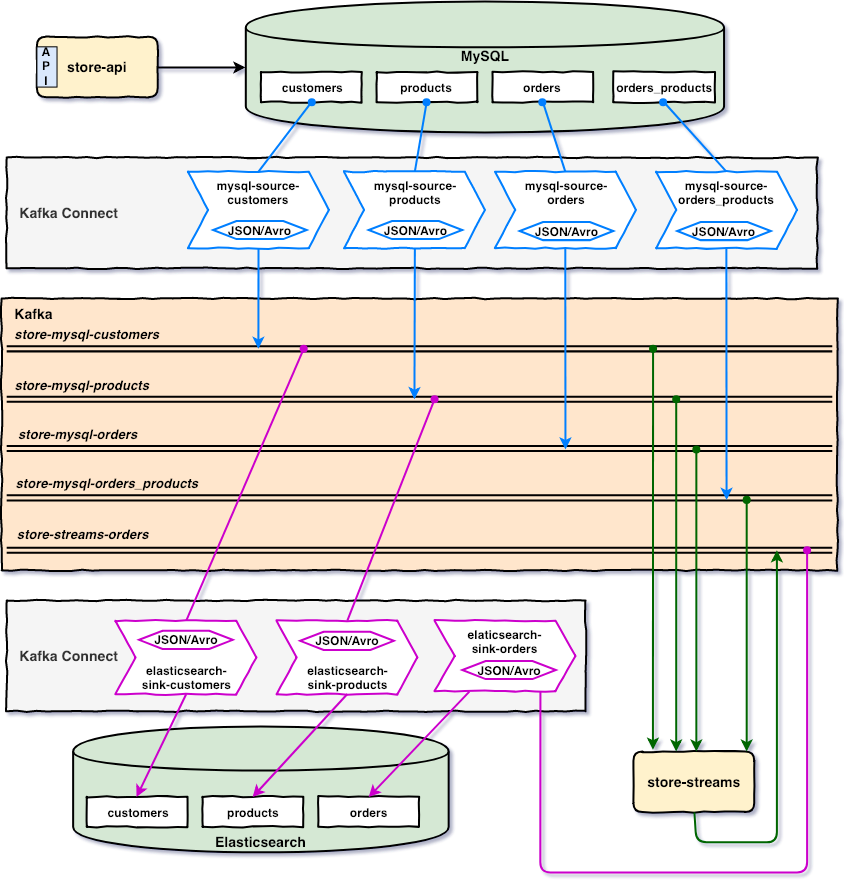
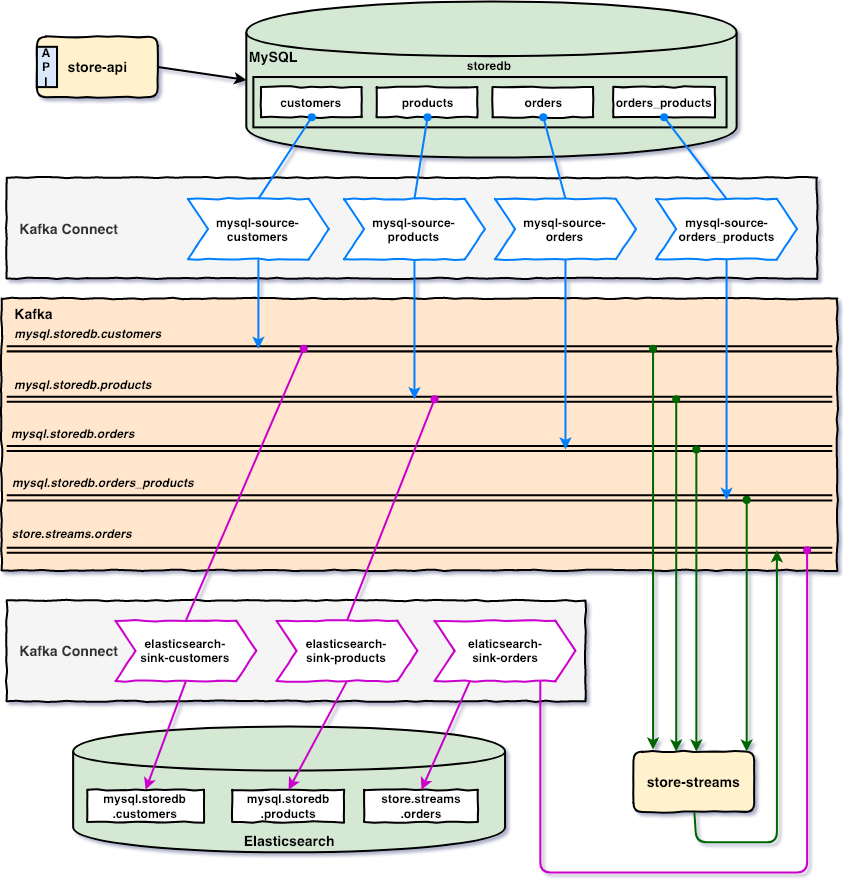
rename some kafka topics and update README

Changed region(s): [[0.0, 0.0, 1.0, 1.0], [0.0308, 0.0305, 0.1542, 0.1219]]

diff --git a/README.md b/README.md
@@ -42,7 +42,7 @@ you want to use `Avro`.
 2. Inside `/springboot-kafka-connect-streams` root folder run
 
 ```
-docker-compose up -d
+docker-compose up -d --build
 ```
 > To stop and remove containers, networks and volumes type:
 > ```
@@ -162,9 +162,9 @@ mvn spring-boot:run -Dspring-boot.run.profiles=avro
 ```
 curl localhost:8081/subjects
 ```
-2. Get the latest version of the subject `store-mysql-customers-value`
+2. Get the latest version of the subject `mysql.storedb.customers-value`
 ```
-curl http://localhost:8081/subjects/store-mysql-customers-value/versions/latest
+curl http://localhost:8081/subjects/mysql.storedb.customers-value/versions/latest
 ```
 
 ### Kibana
@@ -175,9 +175,12 @@ curl http://localhost:8081/subjects/store-mysql-customers-value/versions/latest
 
 - Elasticsearch can be accessed at http://localhost:9200
 
-- You can use `curl` to check some documents, for example in `store-mysql-customers` index
+- You can use `curl` to check some documents, for example in `store.streams.orders` index
 ```
-curl http://localhost:9200/store-streams-orders/_search?pretty
+curl http://localhost:9200/_cat/indices?v
+curl http://localhost:9200/mysql.storedb.customers/_search?pretty
+curl http://localhost:9200/mysql.storedb.products/_search?pretty
+curl http://localhost:9200/store.streams.orders/_search?pretty
 ```
 
 ### Kafkacat
@@ -186,12 +189,12 @@ curl http://localhost:9200/store-streams-orders/_search?pretty
 docker run --tty --interactive --rm --network=springboot-kafka-connect-streams_default \
   confluentinc/cp-kafkacat:5.1.0 kafkacat -b kafka:9092\
   -f '\nKey (%K bytes): %k\t\nValue (%S bytes): %s\n\Partition: %p\tOffset: %o\n--\n' \
-  -t store-mysql-customers -C -c1
+  -t mysql.storedb.customers -C -c1
 ```
 
 ### MySQL
 ```
-docker exec -it store-mysql bash -c 'mysql -uroot -psecret'
+docker exec -it mysql bash -c 'mysql -uroot -psecret'
 use storedb;
 select * from customers;
 ```
